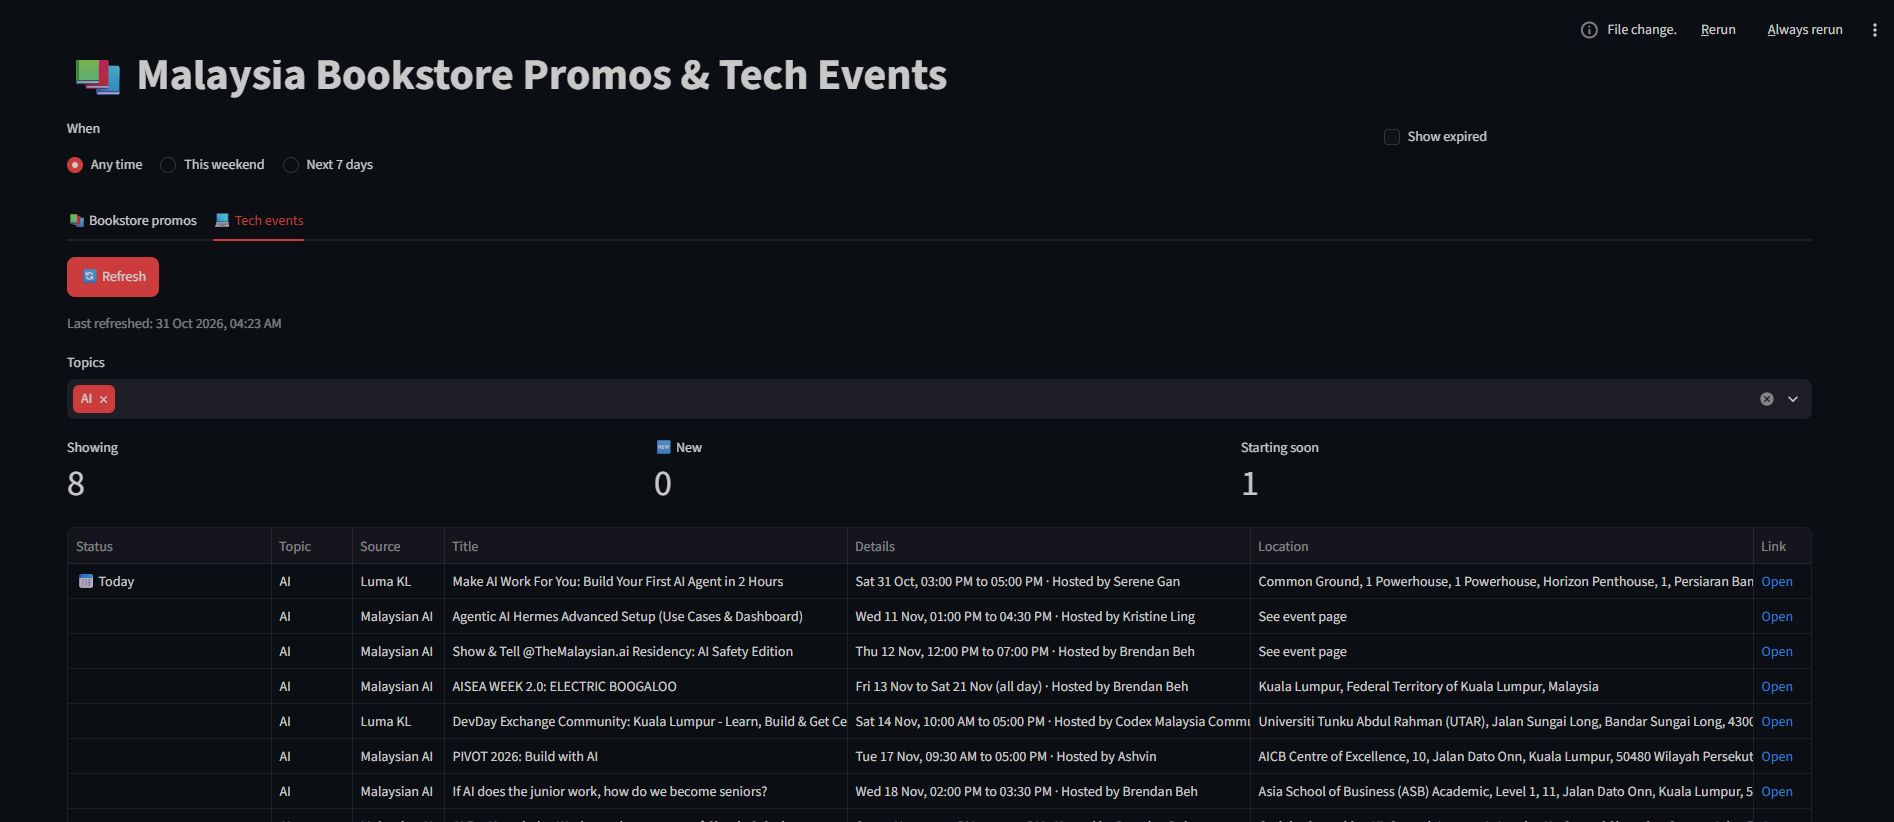
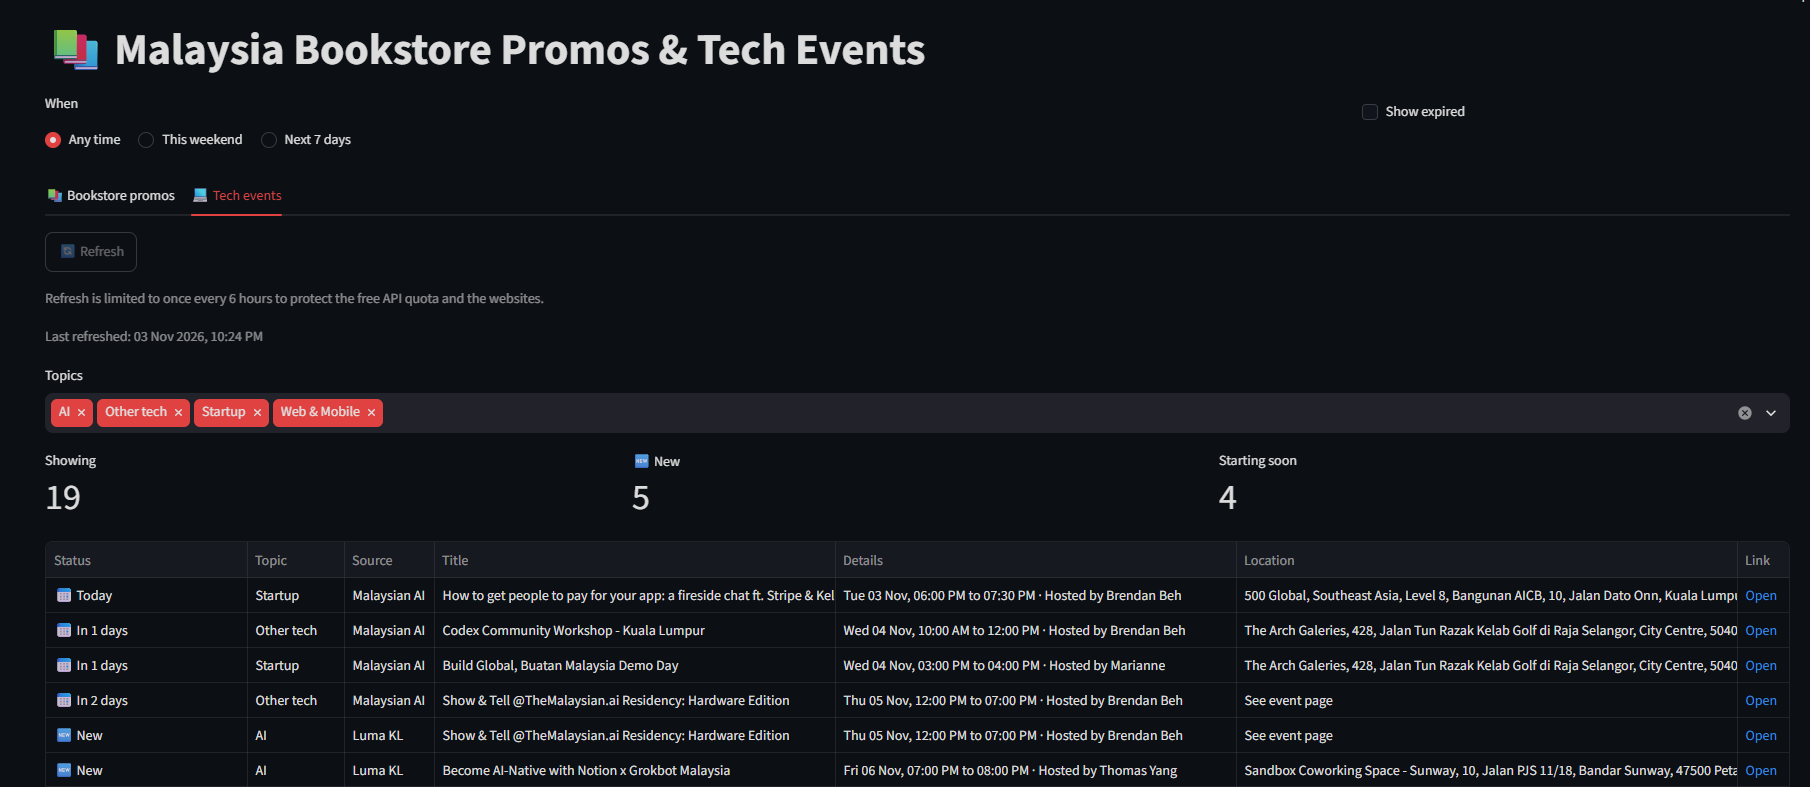
Fix README username and screenshots

diff --git a/README.md b/README.md
@@ -93,7 +93,7 @@ Python · Streamlit · Google Gemini (`google-genai`) · Pydantic · SQLite · p
 ## Run it locally (Windows)
 
 ```powershell
-git clone https://github.com/mlkhwan-hubgit/bookstore-promos.git
+git clone https://github.com/mIkhwan-hubgit/bookstore-promos.git
 cd bookstore-promos
 python -m venv .venv
 .venv\Scripts\activate
